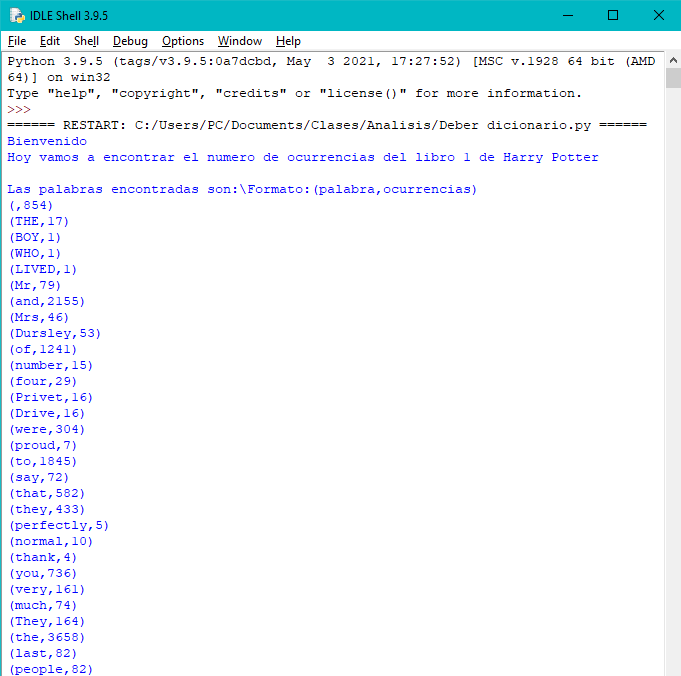
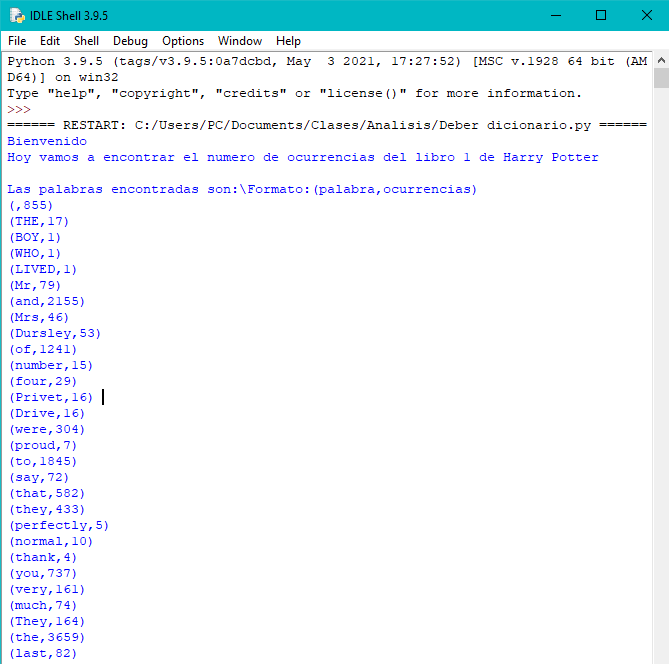
Add files via upload

diff --git a/Deber dicionario.py b/Deber dicionario.py
@@ -6,7 +6,7 @@ dic={}
 while linea!="":
     palabras=linea.split()
     for i in range(len(palabras)):
-        palabra=re.sub('[?|.|!|\/|;|:|,|”|“]','',palabras[i])
+        palabra=re.sub('[?|.|!|\/|;|:|,|”|“|(|)]','',palabras[i])
         #Elimina los caracteres no deseados
         #No elimina ' y - por que podria cauasr muchas confuciones
         #Esos tendrian que ser con split pero no encuentro una manera de
@@ -14,10 +14,11 @@ while linea!="":
         if palabra in dic:#revisa si existe la palabra
             dic[palabra]+=1#añade una ocurrencia
         else:
-            dic.update({palabra:1})
+            if palabra!=" ":
+                dic.update({palabra:1})
     linea=archivo.readline()
 print("Las palabras encontradas son:\Formato:(palabra,ocurrencias)")
 for x in dic:
-    print('({},{}) '.format(x,dic.get(x)))
+    print('({},{}) '.format(x,dic.get(x)))#imprime con formato
 print("Esas son las palabras que hay en el archivo")  
-archivo.close()
+archivo.close()#Cierra el archivo
